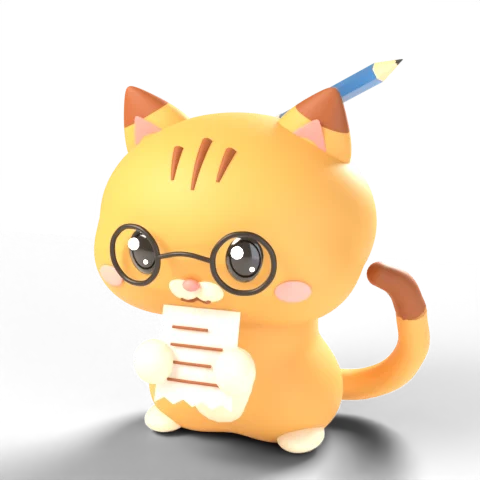
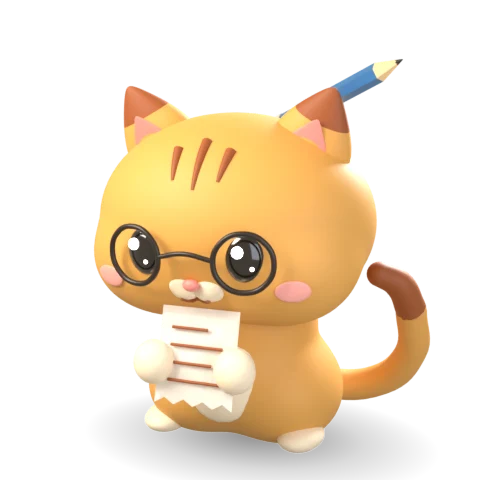
ข้าวตัง: เงาใต้ตัวเป็นวงรีนุ่ม ไม่เป็นกล่องเทาในภาพเล็ก
The shadow catcher's wide penumbra ran off the frame, so small stills
showed a grey box. A radial contact blob (the same one the live view uses)
replaces it, and the stills are smaller too (about 19 KB each).

diff --git a/tools/blender/khaotang.py b/tools/blender/khaotang.py
@@ -538,9 +538,24 @@ def stage(lights='studio', paper=False, shadow=True):
         nt.links.new(mix.outputs[0], nt.nodes['World Output'].inputs['Surface'])
 
     if shadow:
-        me = bpy.data.meshes.new('Ground')
-        bm = bmesh.new(); bmesh.ops.create_grid(bm, x_segments=1, y_segments=1, size=6); bm.to_mesh(me); bm.free()
-        link('Ground', me).is_shadow_catcher = True
+        # a soft contact blob, like the app's live view (a shadow catcher's penumbra runs off the frame)
+        me = bpy.data.meshes.new('Shadow')
+        bm = bmesh.new(); bmesh.ops.create_grid(bm, x_segments=1, y_segments=1, size=1); bm.to_mesh(me); bm.free()
+        m = bpy.data.materials.new('shadow'); m.use_nodes = True
+        nt2 = m.node_tree; b = nt2.nodes['Principled BSDF']
+        b.inputs['Base Color'].default_value = (0, 0, 0, 1); b.inputs['Specular IOR Level'].default_value = 0
+        b.inputs['Roughness'].default_value = 1
+        tc = nt2.nodes.new('ShaderNodeTexCoord'); grad = nt2.nodes.new('ShaderNodeTexGradient'); grad.gradient_type = 'SPHERICAL'
+        ramp = nt2.nodes.new('ShaderNodeValToRGB')
+        ramp.color_ramp.elements[0].position = 0.0; ramp.color_ramp.elements[0].color = (0, 0, 0, 1)
+        ramp.color_ramp.elements[1].position = 1.0; ramp.color_ramp.elements[1].color = (0.45, 0.45, 0.45, 1)
+        e = ramp.color_ramp.elements.new(0.4); e.color = (0.14, 0.14, 0.14, 1)
+        nt2.links.new(tc.outputs['Object'], grad.inputs['Vector'])
+        nt2.links.new(grad.outputs['Fac'], ramp.inputs['Fac'])
+        nt2.links.new(ramp.outputs['Color'], b.inputs['Alpha'])
+        blob_ = link('Shadow', me, m)
+        blob_.location = (0.12, -0.02, 0.003); blob_.scale = (1.15, 0.85, 1)
+        blob_.visible_shadow = False
 
     def area(name, loc, energy, size, hex_):
         li = bpy.data.lights.new(name, 'AREA'); li.energy = energy; li.size = size; li.color = lin(hex_)[:3]
